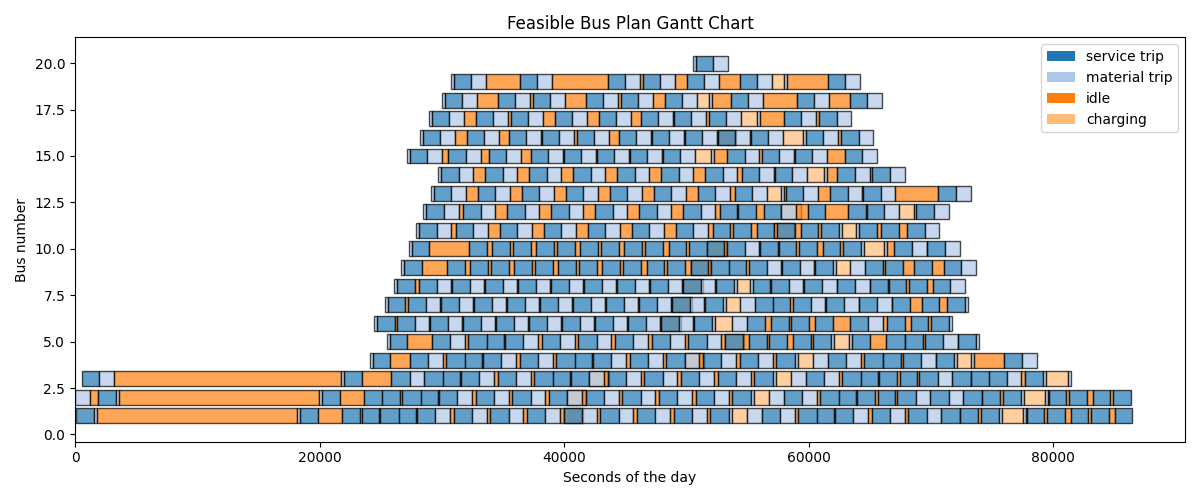
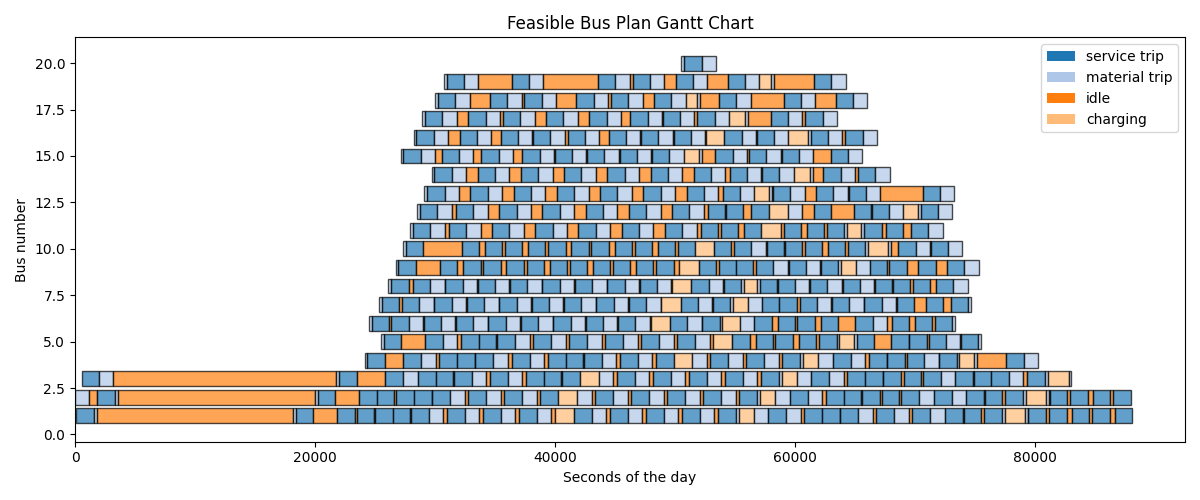
Changes to improvedbusplan
skibidditoilet

diff --git a/imporvedbusplan.py b/imporvedbusplan.py
@@ -31,9 +31,13 @@ def change_data(df):
         datum = "31-10-2025"
         df["start time"] = pd.to_datetime(datum + " " + df["start time"], format="%d-%m-%Y %H:%M:%S")
         df["end time"] = pd.to_datetime(datum + " " + df["end time"], format="%d-%m-%Y %H:%M:%S")
-        df["start_seconds"] = df["start time"].dt.hour * 3600 + df["start time"].dt.minute * 60 + df["start time"].dt.second
-        df["end_seconds"] = df["end time"].dt.hour * 3600 + df["end time"].dt.minute * 60 + df["end time"].dt.second
-        df.loc[df["end_seconds"] < df["start_seconds"], "end_seconds"] += 24 * 3600
+        # If end time is before start time, add one day to end time
+        mask = df["end time"] < df["start time"]
+        df.loc[mask, "end time"] += pd.Timedelta(days=1)
+        # Calculate seconds since planning day midnight for both start and end
+        planning_midnight = pd.to_datetime(datum + " 00:00:00", format="%d-%m-%Y %H:%M:%S")
+        df["start_seconds"] = (df["start time"] - planning_midnight).dt.total_seconds()
+        df["end_seconds"] = (df["end time"] - planning_midnight).dt.total_seconds()
         return df
 
     def replace_empty_gaps_with_idle(df):
@@ -135,6 +139,32 @@ def make_feasible_busplan(df_filled):
     df_new["end time"] = df_new["end time"].dt.strftime("%H:%M:%S")
     return df_new
 
+def remove_overlaps(df):
+    df_sorted = df.sort_values(['bus', 'start_seconds']).reset_index(drop=True)
+    cleaned_rows = []
+    for bus, group in df_sorted.groupby('bus'):
+        prev_end = None
+        for idx, row in group.iterrows():
+            start = row['start_seconds']
+            end = row['end_seconds']
+            # If overlap, shift start to prev_end
+            if prev_end is not None and start < prev_end:
+                duration = end - start
+                start = prev_end
+                end = start + duration
+            cleaned_row = row.copy()
+            cleaned_row['start_seconds'] = start
+            cleaned_row['end_seconds'] = end
+            cleaned_rows.append(cleaned_row)
+            prev_end = end
+    df_cleaned = pd.DataFrame(cleaned_rows)
+    # Recalculate start/end time columns
+    df_cleaned["start time"] = pd.to_datetime("00:00:00") + pd.to_timedelta(df_cleaned["start_seconds"], unit='s')
+    df_cleaned["end time"] = pd.to_datetime("00:00:00") + pd.to_timedelta(df_cleaned["end_seconds"], unit='s')
+    df_cleaned["start time"] = df_cleaned["start time"].dt.strftime("%H:%M:%S")
+    df_cleaned["end time"] = df_cleaned["end time"].dt.strftime("%H:%M:%S")
+    return df_cleaned
+
 
 # 5. ENERGY CHECK
 def Energy_Checker(df):
@@ -193,12 +223,13 @@ def main():
     report_missing_data(df)
     df_filled = change_data(df)
     df_feasible = make_feasible_busplan(df_filled)
-    df_feasible.to_excel("BusPlanning_feasible.xlsx", index=False)
+    df_no_overlap = remove_overlaps(df_feasible)  # <-- Add this line
+    df_no_overlap.to_excel("BusPlanning_feasible.xlsx", index=False)
     print("\nFeasible bus plan saved as 'BusPlanning_feasible.xlsx'")
     print("\nEnergy check results:")
-    for msg in Energy_Checker(df_feasible):
+    for msg in Energy_Checker(df_no_overlap):
         print(msg)
-    plot_gantt_chart(df_feasible)
+    plot_gantt_chart(df_no_overlap)
 
 
 if __name__ == "__main__":
